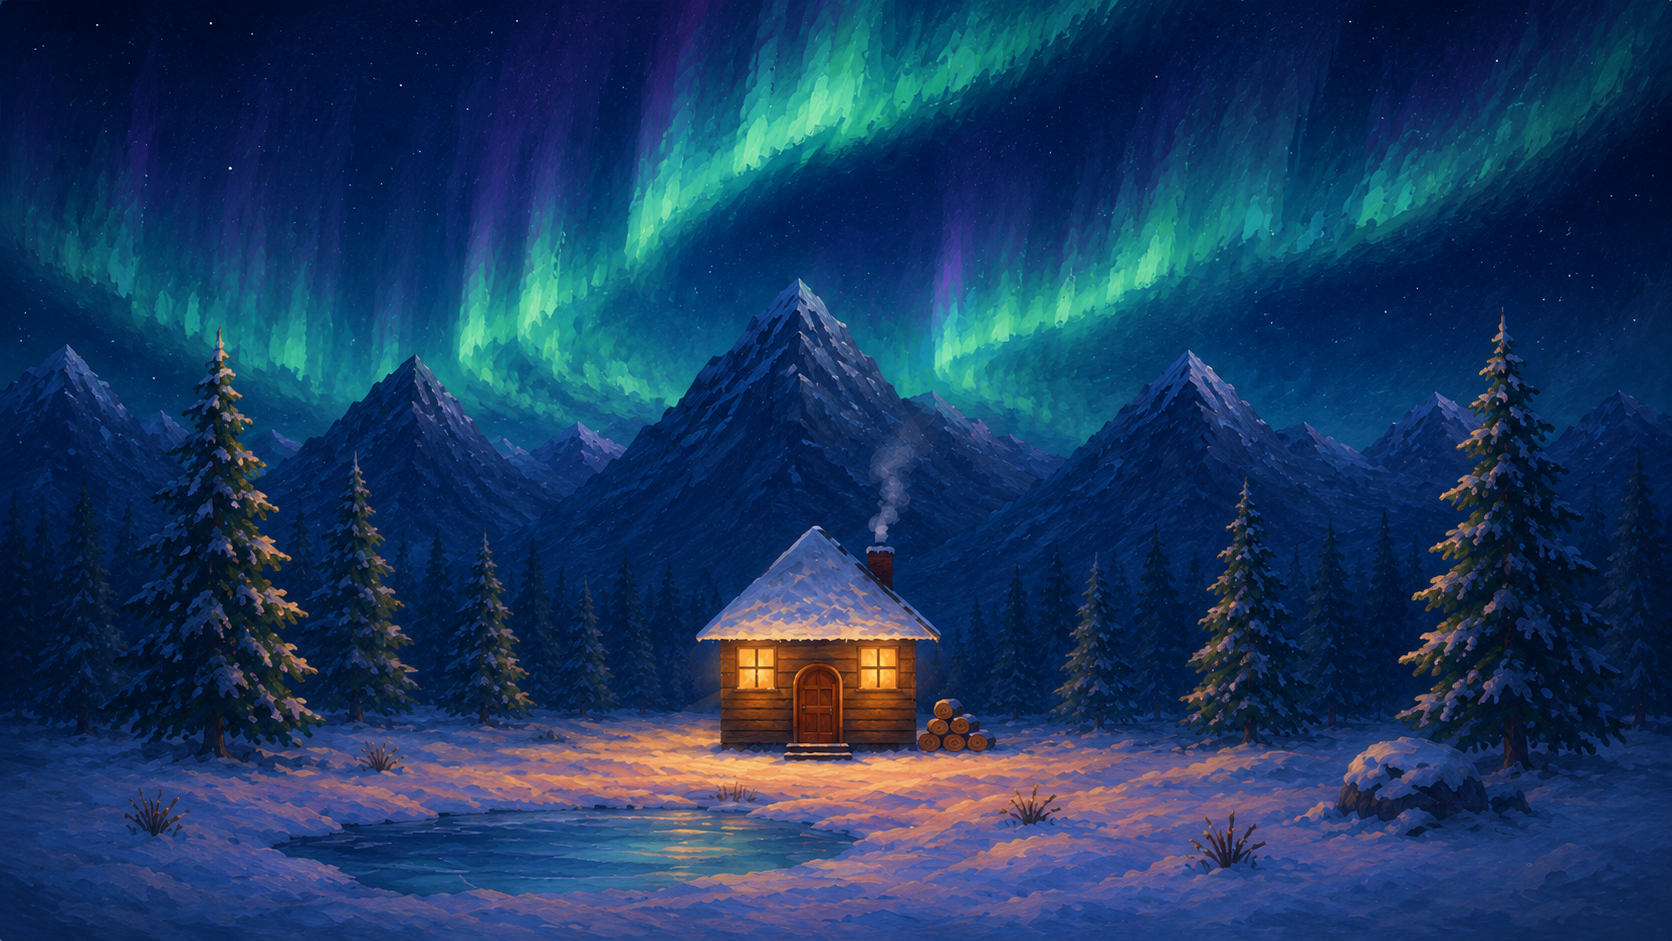
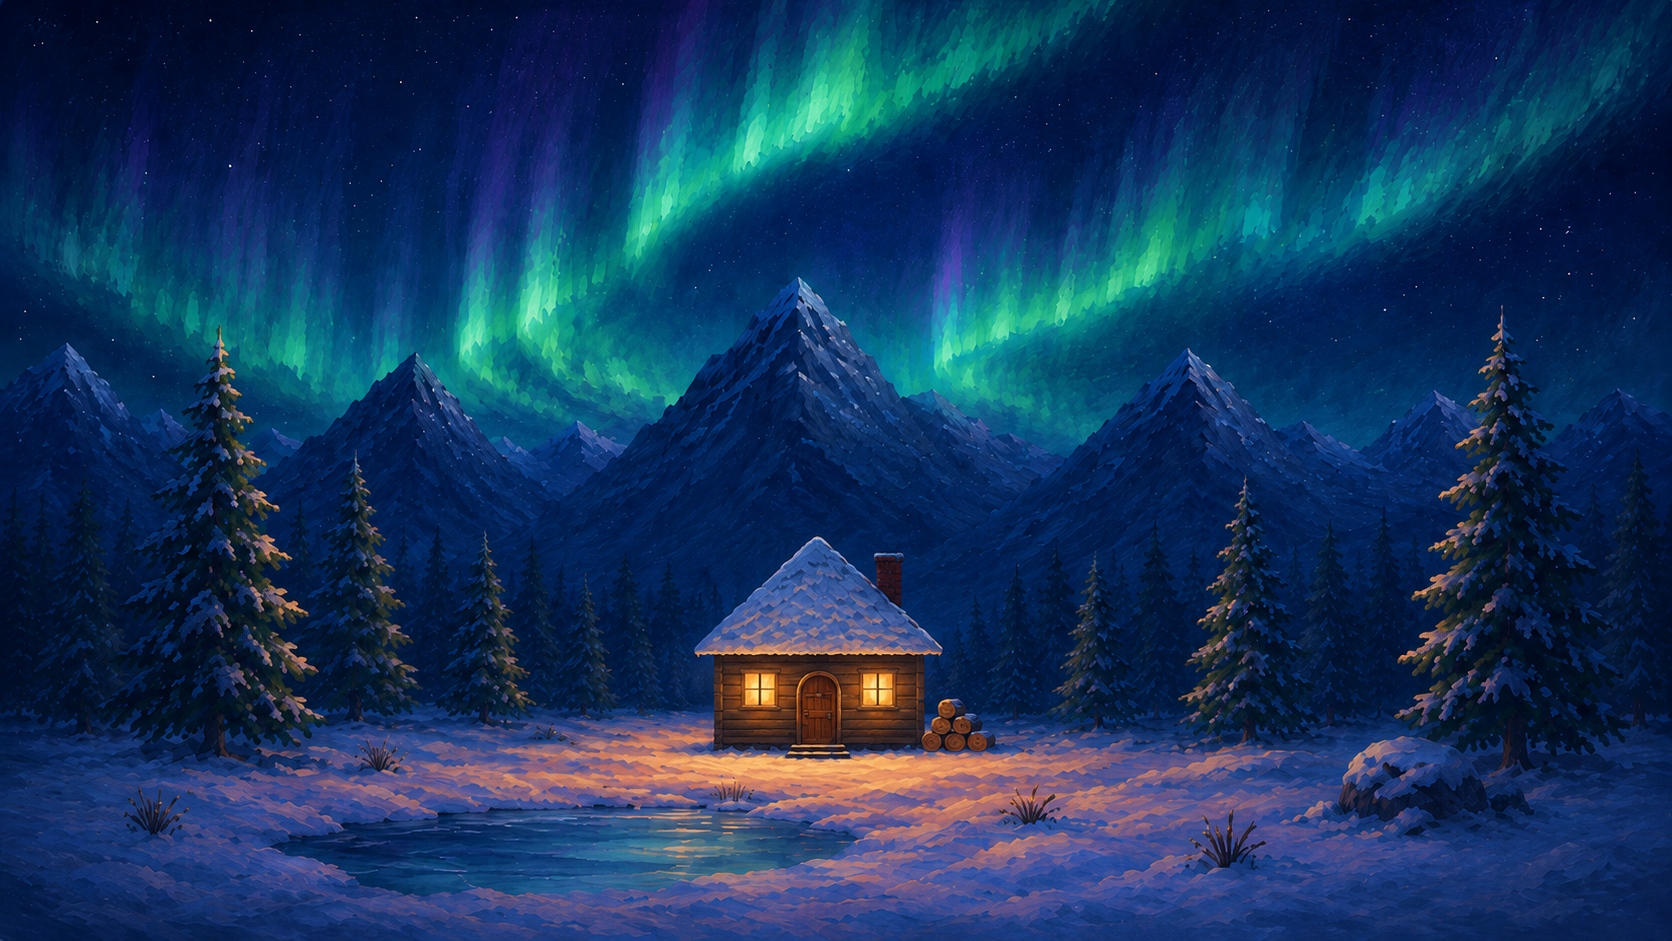
Replace procedural deer with sprite animation; update cabin backgrounds
- Deer event now uses 5 pre-generated PNG sprite frames (4-frame walk
  cycle + pause pose) loaded via new preloadDeerSprites() alongside
  preloadScenes(); cold breath puffs remain procedural
- Deer size doubled (S*0.28), positioned at pixel-measured door
  threshold (portrait H*0.800, landscape H*0.808)
- Updated background-portrait.png and background-landscape.png with
  new painting-quality cabin art (same 941x1672 / 1672x941 dimensions)

diff --git a/app.js b/app.js
@@ -60,6 +60,16 @@ async function preloadScenes(scenes) {
   }));
 }
 
+const deerSprites = {};
+async function preloadDeerSprites() {
+  const base = 'assets/scenes/tiny-cabin/deer/';
+  await Promise.all(
+    ['walk-0', 'walk-1', 'walk-2', 'walk-3', 'pause'].map(async n => {
+      deerSprites[n] = await loadImage(`${base}${n}.png`);
+    })
+  );
+}
+
 // ─── IMAGE COVER HELPER ───────────────────────────────────────────────────────
 function drawImageCover(ctx, img, W, H) {
   if (!img) return;
@@ -483,7 +493,7 @@ class CabinEventsOverlay {
     const L = W > H;
 
     // Anchor coords tuned to the painting (portrait vs landscape)
-    this.gy        = H * (L ? 0.700 : 0.720);
+    this.gy        = H * (L ? 0.808 : 0.800);
     this.chx       = W * (L ? 0.539 : 0.563);
     this.chy       = H * (L ? 0.457 : 0.550);
     this.roofPeakX = W * (L ? 0.500 : 0.550);
@@ -873,129 +883,58 @@ class CabinEventsOverlay {
     } else if (ev.active === 'deer') {
       const dur = 11;
       if (et > dur) { ev.active = null; } else {
-        const p  = et / dur;
-        const ps = 0.40, pe = 0.58;
-        const xp = p < ps ? p / ps * 0.5 : p < pe ? 0.5 : 0.5 + (p - pe) / (1 - pe) * 0.5;
-        const startX = ev.dir > 0 ? -S * 0.15 : W + S * 0.15;
-        const endX   = ev.dir > 0 ? W + S * 0.15 : -S * 0.15;
-        const dx     = startX + (endX - startX) * xp;
-        const sz     = S * 0.14;
+        const p       = et / dur;
+        const ps      = 0.40, pe = 0.58;
+        const xp      = p < ps ? p / ps * 0.5 : p < pe ? 0.5 : 0.5 + (p - pe) / (1 - pe) * 0.5;
+        const sz      = S * 0.28;
+        const margin  = sz * 1.5;
+        const startX  = ev.dir > 0 ? -margin : W + margin;
+        const endX    = ev.dir > 0 ? W + margin : -margin;
+        const dx      = startX + (endX - startX) * xp;
         const pausing = p >= ps && p < pe;
-        const lookUp  = pausing && (et - ps * dur) > 0.7;
         const fa      = p < 0.07 ? p / 0.07 : p > 0.93 ? (1 - p) / 0.07 : 1;
 
-        ctx.globalAlpha = fa;
-        ctx.save();
-        ctx.translate(dx, gy);
-        if (ev.dir < 0) ctx.scale(-1, 1);
+        const frameIdx = Math.floor(et * (4.6 / (Math.PI * 2)) * 4) % 4;
+        const frame    = pausing ? deerSprites['pause'] : deerSprites[`walk-${frameIdx}`];
+        if (frame) {
+          // drawH tuned so sprite deer ≈ same apparent height as procedural deer
+          const drawH  = sz * 1.2;
+          const drawW  = drawH * (frame.naturalWidth / frame.naturalHeight);
+          // foot anchor within sprite — tune FOOT_X/Y if positioning looks off
+          const FOOT_X = 0.50, FOOT_Y = 0.92;
+          const wc  = pausing ? 0 : et * 4.6;
+          const bob = pausing ? 0 : Math.abs(Math.cos(wc)) * sz * 0.028;
 
-        const wc  = pausing ? 0 : et * 4.6;
-        const sw  = Math.sin(wc);
-        const bob = pausing ? 0 : Math.abs(Math.cos(wc)) * sz * 0.028;
-        ctx.translate(0, -bob);
-
-        const na  = lookUp ? -1.45 : -1.12;
-        const nbx = sz * .18, nby = -sz * .62;
-        const nex = nbx + Math.cos(na) * sz * .40;
-        const ney = nby + Math.sin(na) * sz * .40;
-
-        const deerLeg = (ox, oy, ua, ul, la, ll, col) => {
-          const kx = ox + Math.sin(ua) * ul, ky = oy + Math.cos(ua) * ul;
-          const fx = kx + Math.sin(la) * ll, fy = ky + Math.cos(la) * ll;
-          ctx.strokeStyle = col; ctx.lineCap = 'round';
-          ctx.lineWidth = sz * .090; ctx.beginPath(); ctx.moveTo(ox, oy); ctx.lineTo(kx, ky); ctx.stroke();
-          ctx.lineWidth = sz * .080; ctx.beginPath(); ctx.moveTo(kx, ky); ctx.lineTo(fx, fy); ctx.stroke();
-          ctx.lineWidth = sz * .075;
-          ctx.beginPath();
-          ctx.moveTo(fx, fy);
-          ctx.lineTo(fx + Math.sin(la + .10) * sz * .040, fy + Math.cos(la + .10) * sz * .040);
-          ctx.stroke();
-        };
-
-        const lc = '#1c0f07';
-        deerLeg( sz*.24,-sz*.36,  .04-sw*.18, sz*.18,  .02-sw*.14, sz*.18, lc);
-        deerLeg(-sz*.50,-sz*.36, -.06+sw*.16, sz*.17,  .12+sw*.14, sz*.18, lc);
-        deerLeg( sz*.32,-sz*.36,  .04+sw*.18, sz*.18,  .02+sw*.14, sz*.18, lc);
-        deerLeg(-sz*.42,-sz*.36, -.06-sw*.16, sz*.17,  .12-sw*.14, sz*.18, lc);
-
-        ctx.fillStyle = 'rgba(200,186,162,0.75)';
-        ctx.beginPath(); ctx.ellipse(-sz*.44,-sz*.46, sz*.13, sz*.10, .20, 0, TAU); ctx.fill();
-
-        const [bT,bB,bF,bK,cr] = [-sz*.63, -sz*.36, sz*.32, -sz*.50, sz*.08];
-        ctx.fillStyle = '#1c0f07';
-        ctx.beginPath();
-        ctx.moveTo(bF-cr,bT); ctx.lineTo(bK+cr,bT);
-        ctx.quadraticCurveTo(bK,bT, bK,bT+cr);
-        ctx.lineTo(bK,bB-cr); ctx.quadraticCurveTo(bK,bB, bK+cr,bB);
-        ctx.lineTo(bF-cr,bB); ctx.quadraticCurveTo(bF,bB, bF,bB-cr);
-        ctx.lineTo(bF,bT+cr); ctx.quadraticCurveTo(bF,bT, bF-cr,bT);
-        ctx.closePath(); ctx.fill();
-
-        ctx.fillStyle = 'rgba(210,198,175,0.80)';
-        ctx.beginPath(); ctx.ellipse(bK-sz*.02, bT-sz*.04, sz*.07, sz*.055, -.5, 0, TAU); ctx.fill();
-
-        ctx.strokeStyle = '#1c0f07'; ctx.lineWidth = sz*.18; ctx.lineCap = 'round';
-        ctx.beginPath(); ctx.moveTo(nbx, nby); ctx.lineTo(nex, ney); ctx.stroke();
-
-        const headA = lookUp ? -0.45 : -0.15;
-        ctx.save();
-        ctx.translate(nex, ney); ctx.rotate(headA);
-        ctx.fillStyle = '#1c0f07';
-        ctx.beginPath(); ctx.ellipse(sz*.02, 0, sz*.145, sz*.125, 0, 0, TAU); ctx.fill();
-        ctx.beginPath(); ctx.ellipse(sz*.20, sz*.04, sz*.095, sz*.080, .12, 0, TAU); ctx.fill();
-        ctx.save();
-        ctx.translate(-sz*.04, -sz*.110); ctx.rotate(-0.25);
-        ctx.fillStyle = '#1c0f07';
-        ctx.beginPath(); ctx.ellipse(0, 0, sz*.075, sz*.110, 0, 0, TAU); ctx.fill();
-        ctx.fillStyle = '#2b1a0b';
-        ctx.beginPath(); ctx.ellipse(0, 0, sz*.038, sz*.068, 0, 0, TAU); ctx.fill();
-        ctx.restore();
-        ctx.fillStyle = 'rgba(162,112,42,0.86)';
-        ctx.beginPath(); ctx.arc(sz*.06, -sz*.040, sz*.028, 0, TAU); ctx.fill();
-        ctx.fillStyle = '#070403';
-        ctx.beginPath(); ctx.arc(sz*.06, -sz*.040, sz*.015, 0, TAU); ctx.fill();
-        ctx.restore();
-
-        if (pausing) {
-          const bAge  = et - ps * dur;
-          const bFade = Math.min(1, bAge / 0.55);
-          const mox   = nex + Math.cos(headA) * sz * .32;
-          const moy   = ney + Math.sin(headA) * sz * .32;
-          for (let i = 0; i < 3; i++) {
-            const bp = ((t * .62 + i * .42) % 1.5) * bFade;
-            ctx.globalAlpha = fa * (1 - bp / 1.5) * 0.28 * bFade;
-            ctx.fillStyle = '#cce4f3';
-            ctx.beginPath();
-            ctx.arc(
-              mox + Math.cos(headA - .06) * bp * sz * .25,
-              moy + Math.sin(headA - .06) * bp * sz * .25,
-              sz * .025 + bp * sz * .050, 0, TAU
-            );
-            ctx.fill();
-          }
+          ctx.save();
           ctx.globalAlpha = fa;
+          ctx.translate(dx, gy);
+          if (ev.dir < 0) ctx.scale(-1, 1);
+          ctx.translate(0, -bob);
+          ctx.drawImage(frame, -drawW * FOOT_X, -drawH * FOOT_Y, drawW, drawH);
+
+          if (pausing) {
+            const bAge  = et - ps * dur;
+            const bFade = Math.min(1, bAge / 0.55);
+            // nose offset from foot anchor in sprite coords (pause frame, head raised)
+            const noseX = drawW * 0.12;
+            const noseY = -drawH * 0.79;
+            const breathAngle = -0.35;
+            for (let i = 0; i < 3; i++) {
+              const bp = ((t * .62 + i * .42) % 1.5) * bFade;
+              ctx.globalAlpha = fa * (1 - bp / 1.5) * 0.28 * bFade;
+              ctx.fillStyle = '#cce4f3';
+              ctx.beginPath();
+              ctx.arc(
+                noseX + Math.cos(breathAngle) * bp * sz * .25,
+                noseY + Math.sin(breathAngle) * bp * sz * .25,
+                sz * .025 + bp * sz * .050, 0, TAU
+              );
+              ctx.fill();
+            }
+          }
+
+          ctx.restore();
         }
-
-        const upA = headA - Math.PI * .5;
-        const abx = nex + Math.cos(upA) * sz * .110 + Math.cos(headA) * sz * .010;
-        const aby = ney + Math.sin(upA) * sz * .110 + Math.sin(headA) * sz * .010;
-        ctx.lineCap = 'round';
-        const [fa2x, fa2y] = [abx - sz*.04, aby - sz*.26];
-        ctx.strokeStyle = '#0e0804'; ctx.lineWidth = sz*.030;
-        ctx.beginPath(); ctx.moveTo(abx-sz*.04, aby); ctx.lineTo(fa2x, fa2y); ctx.stroke();
-        ctx.lineWidth = sz*.018;
-        ctx.beginPath(); ctx.moveTo(abx-sz*.04, aby-sz*.08); ctx.lineTo(abx+sz*.06, aby-sz*.19); ctx.stroke();
-        ctx.beginPath(); ctx.moveTo(fa2x, fa2y); ctx.lineTo(fa2x-sz*.06, fa2y-sz*.10); ctx.stroke();
-        ctx.beginPath(); ctx.moveTo(fa2x, fa2y); ctx.lineTo(fa2x+sz*.04, fa2y-sz*.11); ctx.stroke();
-        ctx.strokeStyle = '#1b1008'; ctx.lineWidth = sz*.036;
-        const [ant2x, ant2y] = [abx, aby - sz*.28];
-        ctx.beginPath(); ctx.moveTo(abx, aby); ctx.lineTo(ant2x, ant2y); ctx.stroke();
-        ctx.lineWidth = sz*.022;
-        ctx.beginPath(); ctx.moveTo(abx+sz*.01, aby-sz*.08); ctx.lineTo(abx+sz*.10, aby-sz*.20); ctx.stroke();
-        ctx.beginPath(); ctx.moveTo(ant2x+sz*.01, ant2y+sz*.06); ctx.lineTo(ant2x-sz*.07, ant2y-sz*.10); ctx.stroke();
-        ctx.beginPath(); ctx.moveTo(ant2x+sz*.01, ant2y+sz*.06); ctx.lineTo(ant2x+sz*.06, ant2y-sz*.12); ctx.stroke();
-
-        ctx.restore();
       }
 
     // ── OWL ────────────────────────────────────────────────────────────────────
@@ -1247,7 +1186,7 @@ class MomentariumApp {
     this._initInput();
     this._initShake();
 
-    preloadScenes(SCENES).then(() => {
+    Promise.all([preloadScenes(SCENES), preloadDeerSprites()]).then(() => {
       this._buildOverlays();
       requestAnimationFrame(t => this._loop(t));
     });